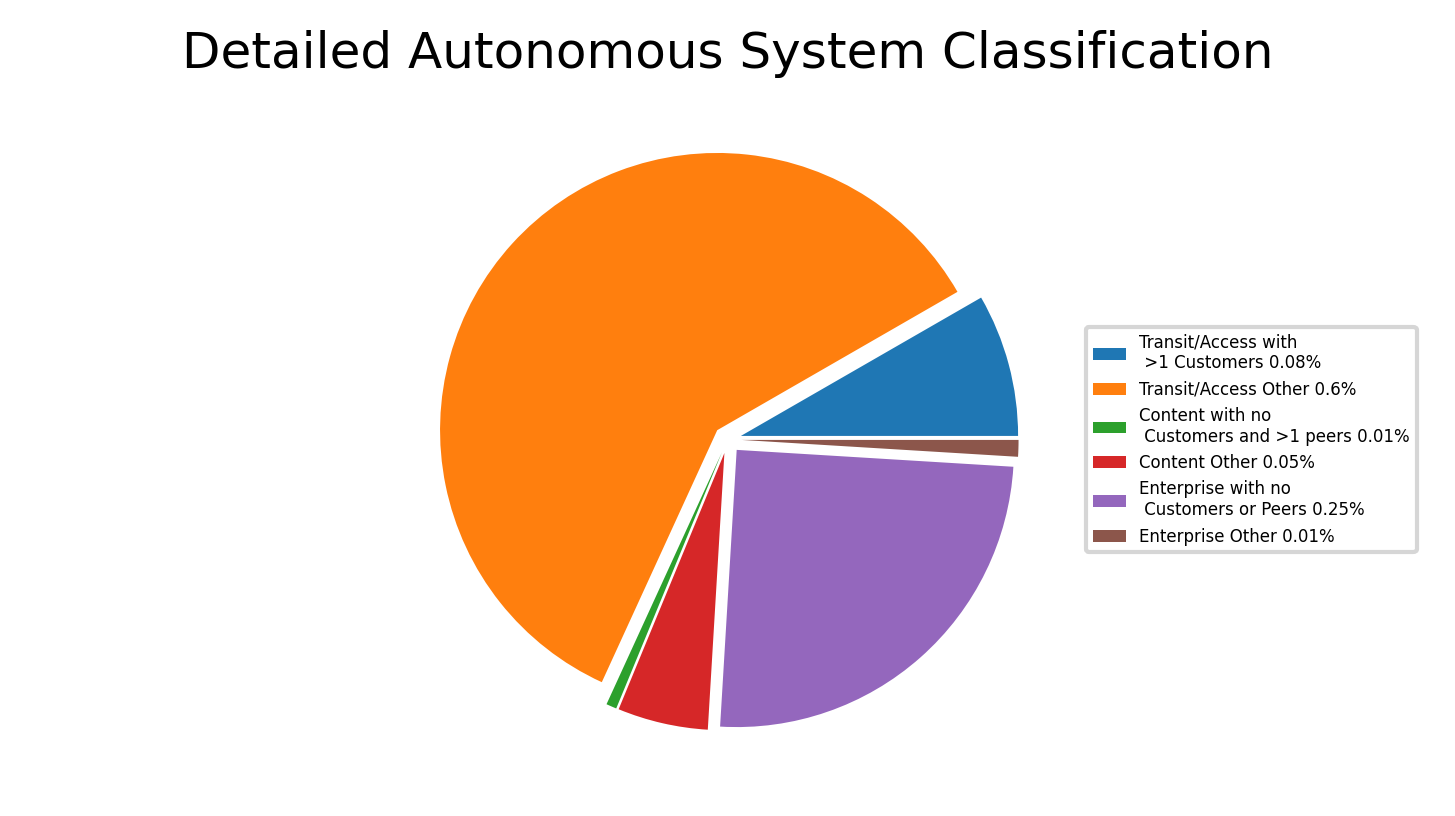
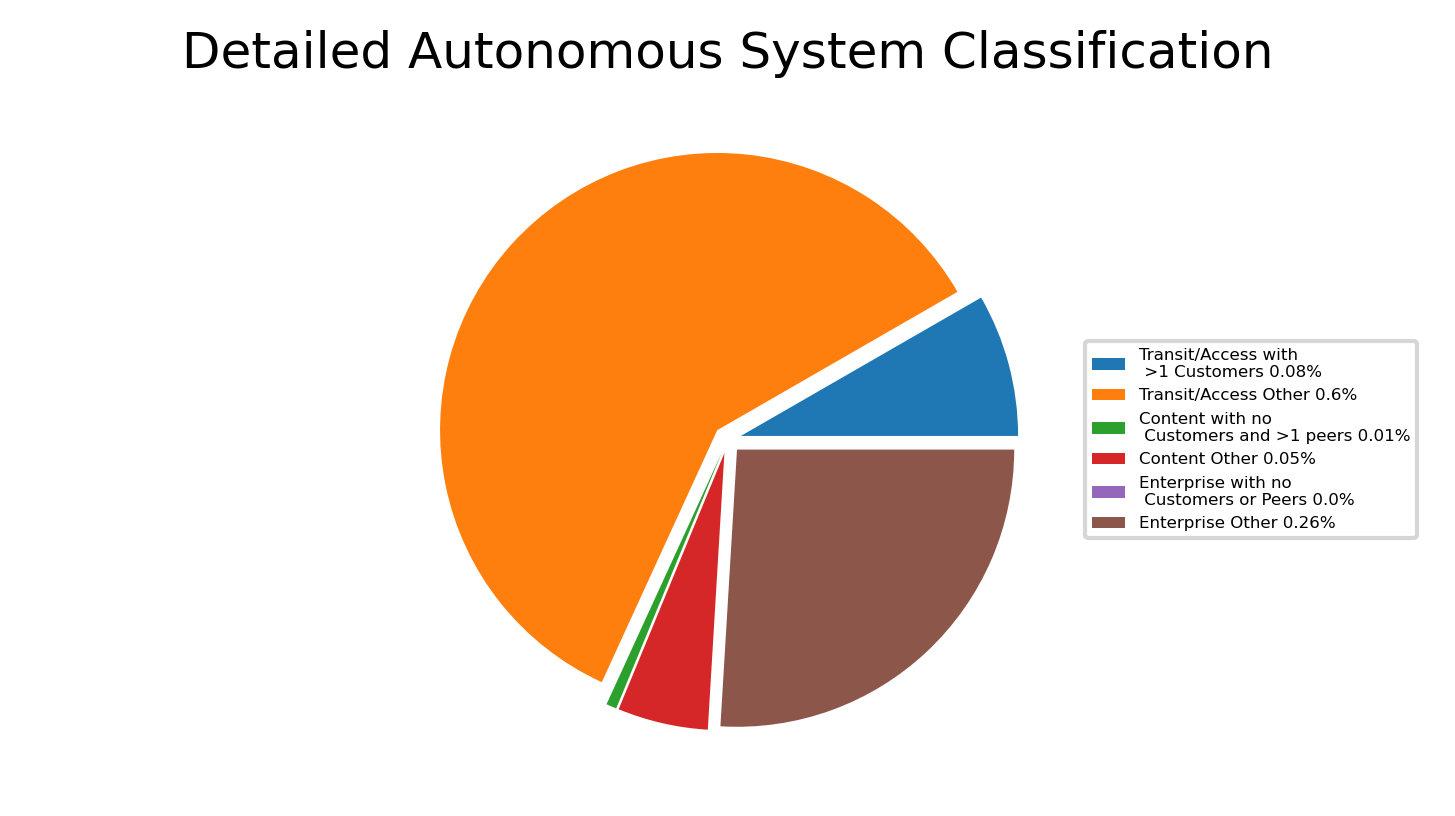
fixes bug in graph 2 that caused issues in other things

Changed region(s): [[0.4948, 0.5208, 0.7113, 0.8885], [0.7423, 0.3983, 0.9897, 0.7047]]

diff --git a/utils.py b/utils.py
@@ -54,10 +54,6 @@ def sort_classifications(df):
     -------
     data_dict
         dictionary of AS Node objects
-
-    Raises
-    ------
-    None
     """
     df = df.set_index(df.columns.values[0])
     data_dict = dict()
@@ -83,30 +79,26 @@ def sort_relationships(data_dict, df):
     -------
     data_dict
         dictionary of node objects
-
-    Raises
-    ------
-    None
     """
-    df.set_index(df.columns.values[0], inplace=True)
     for index, row in df.iterrows():
-        if index in data_dict:
-            data_dict[index].degree += 1
-            data_dict[index].connections.append(row.ASb)
+        if row.ASa in data_dict:
+            data_dict[row.ASa].degree += 1
+            data_dict[row.ASa].connections.append(row.ASb)
         else:
-            data_dict[index] = ASNode(node_name=index)
-            data_dict[index].degree += 1
-            data_dict[index].connections.append(row.ASb)
+            data_dict[row.ASa] = ASNode(node_name=row.ASa)
+            data_dict[row.ASa].degree += 1
+            data_dict[row.ASa].connections.append(row.ASb)
         if row.ASb in data_dict:
-            data_dict[index].degree += 1
-            data_dict[index].connections.append(index)
+            data_dict[row.ASb].degree += 1
+            data_dict[row.ASb].connections.append(index)
         else:
             data_dict[row.ASb] = ASNode(node_name=row.ASb)
             data_dict[row.ASb].degree += 1
-            data_dict[row.ASb].connections.append(index)
+            data_dict[row.ASb].connections.append(row.ASa)
         if row.Link == -1:
-            data_dict[index].customers.append(row.ASb)
+            data_dict[row.ASa].customers.append(row.ASb)
     return data_dict
+
 
 def sort_ip_prefixes(data_dict, df):
     import re
@@ -122,6 +114,7 @@ def sort_ip_prefixes(data_dict, df):
                     data_dict[AS] = ASNode(node_name=AS)
                     data_dict[AS].ip_prefs.append(IP_Prefix(row[0], row[1]))
     return data_dict
+
 
 def check_file_validity(files):
     """
@@ -191,6 +184,7 @@ def get_df_from_file(file_):
     columns_list = column_values_str.split(sep)
     df = pd.read_csv(file_, header=None, names=columns_list, delimiter=sep, skiprows=skip)
     return df
+
 
 def get_rv2_df(file_):
     import pandas as pd

diff --git a/main.py b/main.py
@@ -13,14 +13,6 @@ def main(opts):
     ----------
     opts : argparse object
         Object containing variables set by default or the user via command line
-
-    Returns
-    -------
-    None
-
-    Raises
-    ------
-    None
     """
     check_file_validity([opts.as2_types_file, opts.as_rel2_file, opts.as_rv2_file])
 
@@ -47,14 +39,6 @@ def get_graph_1(data_dict):
     ----------
     data_dict : dictionary of AS Node objects
         data frame that contains AS data in the format of AS | source | Type
-
-    Returns
-    -------
-    None
-
-    Raises
-    ------
-    None
     """
     labels = ['Transit/Access', 'Content', 'Enterprise']
     bins = [0]*len(labels)
@@ -86,17 +70,10 @@ def get_graph_2(data_dict):
     ----------
     data_dict : dictionary of AS Node objects
         data frame that contains AS data in the format of AS | source | Type
-
-    Returns
-    -------
-    None
-
-    Raises
-    ------
-    None
     """
     labels = ['1', '2-5', '6-100', '101-200', '201-1000', '1000+']
     bins = [0]*len(labels)
+
     for i in data_dict:
         if data_dict[i].degree == 1:
             bins[0] += 1
@@ -123,6 +100,7 @@ def get_graph_2(data_dict):
     plt.savefig('node_degree_dist.png', dpi=300)
     plt.close(fig)
 
+
 def get_graph_3(data_dict):
     """
     Given a dataframe of AS (Autonomous Systems) IP mappings, create histogram of the IP space assigned to each AS
@@ -130,14 +108,6 @@ def get_graph_3(data_dict):
     Parameters
     ----------
     data_dict : dictionary of AS node object
-
-    Returns
-    -------
-    None
-
-    Raises
-    ------
-    None
     """
     labels = ['0-1000', '1000-10K', '10k-100k', '100k-1M', '1M-10M', '10M+']
     bins = [0]*len(labels)
@@ -166,7 +136,6 @@ def get_graph_3(data_dict):
     plt.title('Autonomous System IP Space Distribution')
     plt.savefig('ip_space_dist.png', dpi=300)
     plt.close(fig)
-
 
 
 def get_graph_4(data_dict):
